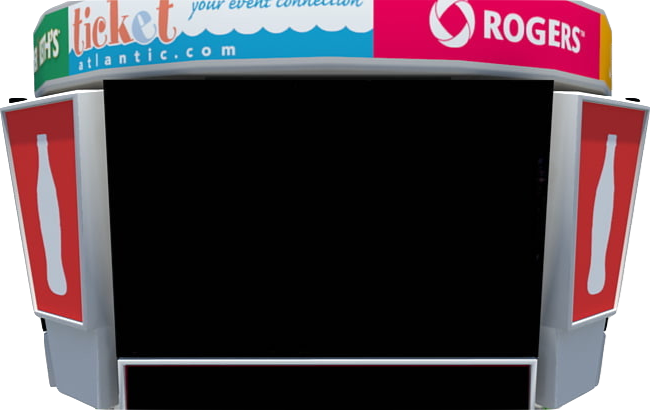
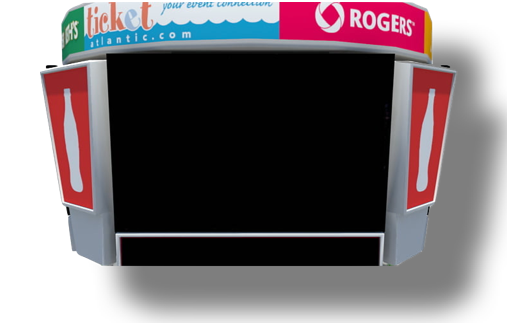
added scoreboard alert and google font Codystar

diff --git a/src/components/PlayerCard.css b/src/components/PlayerCard.css
@@ -1,3 +1,5 @@
+
+
 .mtg-card-container {
   position: relative;
   width: 351.433px;
@@ -9,23 +11,17 @@
  height: 100%;
 }
 
-/* @import url(https://fonts.googleapis.com/css?family=Noto+Sans);
-
-body{
-  background: darken(#04B486, 30%);
-  font-family: 'Noto Sans', 'Helvetica';
-} */
 
 .customAlert{
 	
   display: none;
   position: fixed;
-  max-width: 400px;
-  min-width: 400px !important;
-  min-height: 20%;
+  max-width: 450px;
+  min-width: 450px !important;
+  min-height: 40%;
   height: 250px;
-  left: 48.5%;
-  top: 30%;
+  left: 47%;
+  top: 29%;
   padding: 10px;
   box-sizing: border-box;
   margin-left: -12.5%;
@@ -33,11 +29,13 @@ body{
   background-image: url(../assets/images/arena-monitor.png);
   background-position: center;
   background-size: cover;
-  /* background-repeat: none; */
   color: white;
   text-align: center;
-  font-size: 1.5rem;
-  /* border: 4px solid white; */
+  font-size: 1.25rem;
+  font-family: Codystar;
+  font-weight: bolder;
+  /* border: 3px red solid; */
+  /* box-shadow: 10px 15px 10px -15px #111;  */
 }
   
   /* @media all and (max-width: 1300px){

diff --git a/public/index.html b/public/index.html
@@ -24,6 +24,7 @@
       work correctly both with client-side routing and a non-root public URL.
       Learn how to configure a non-root public URL by running `npm run build`.
     -->
+    <link href="https://fonts.googleapis.com/css2?family=Codystar&display=swap" rel="stylesheet">  
     <title>NBA Matchups</title>
   </head>
   <body>
